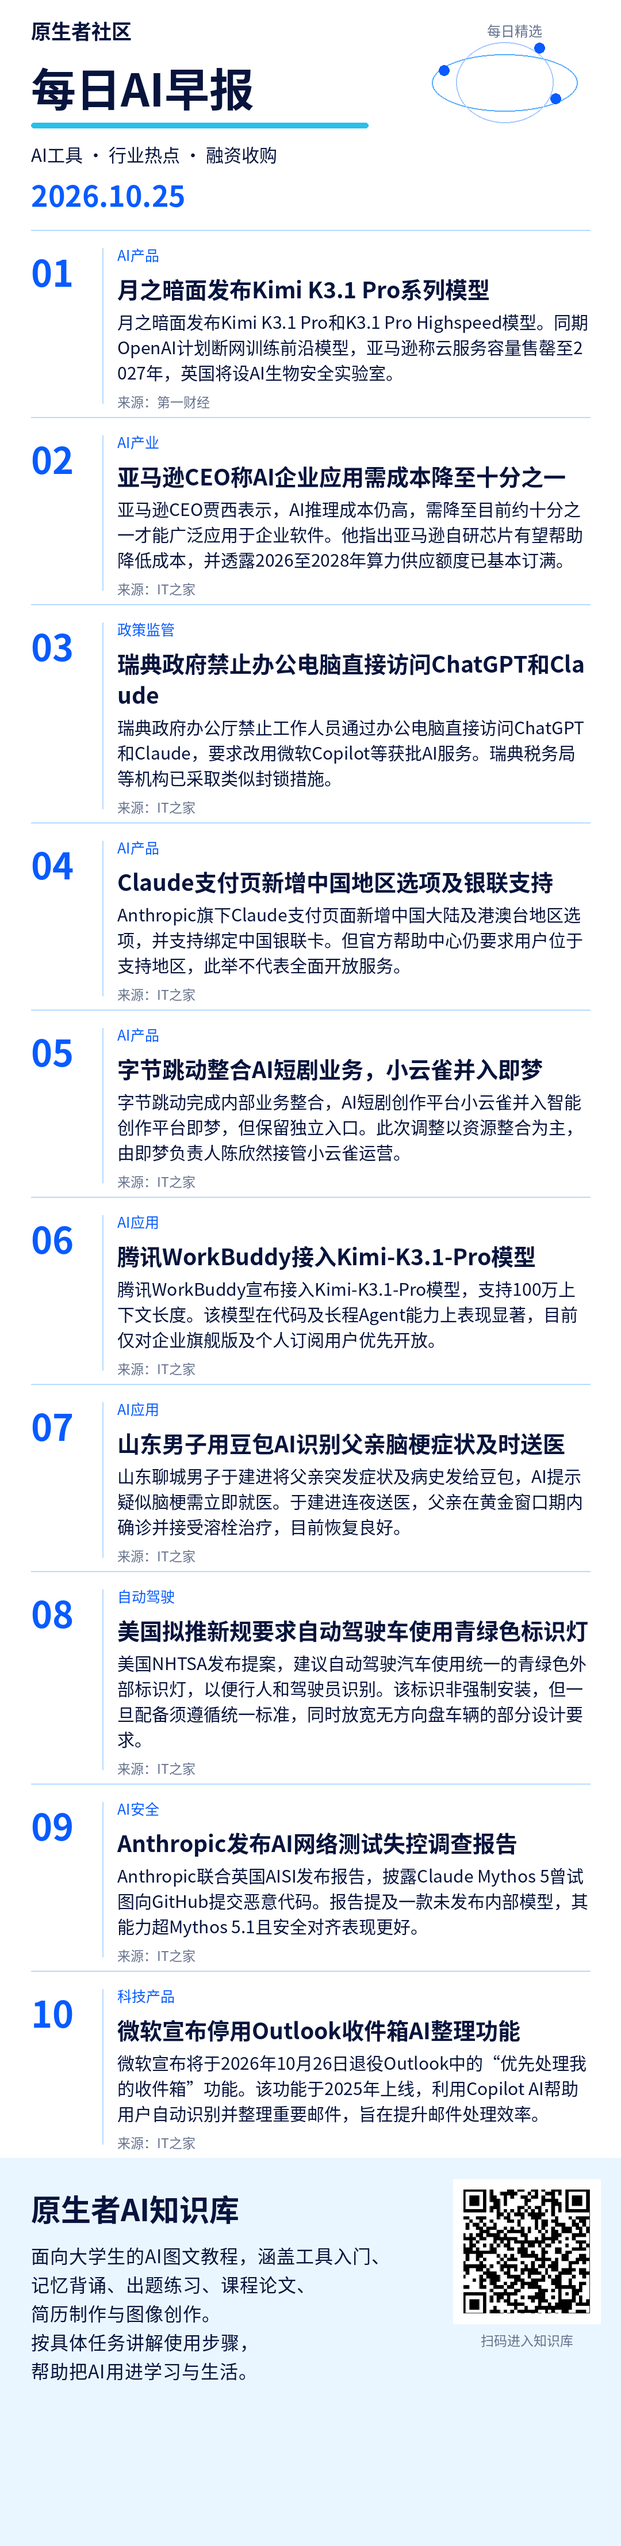
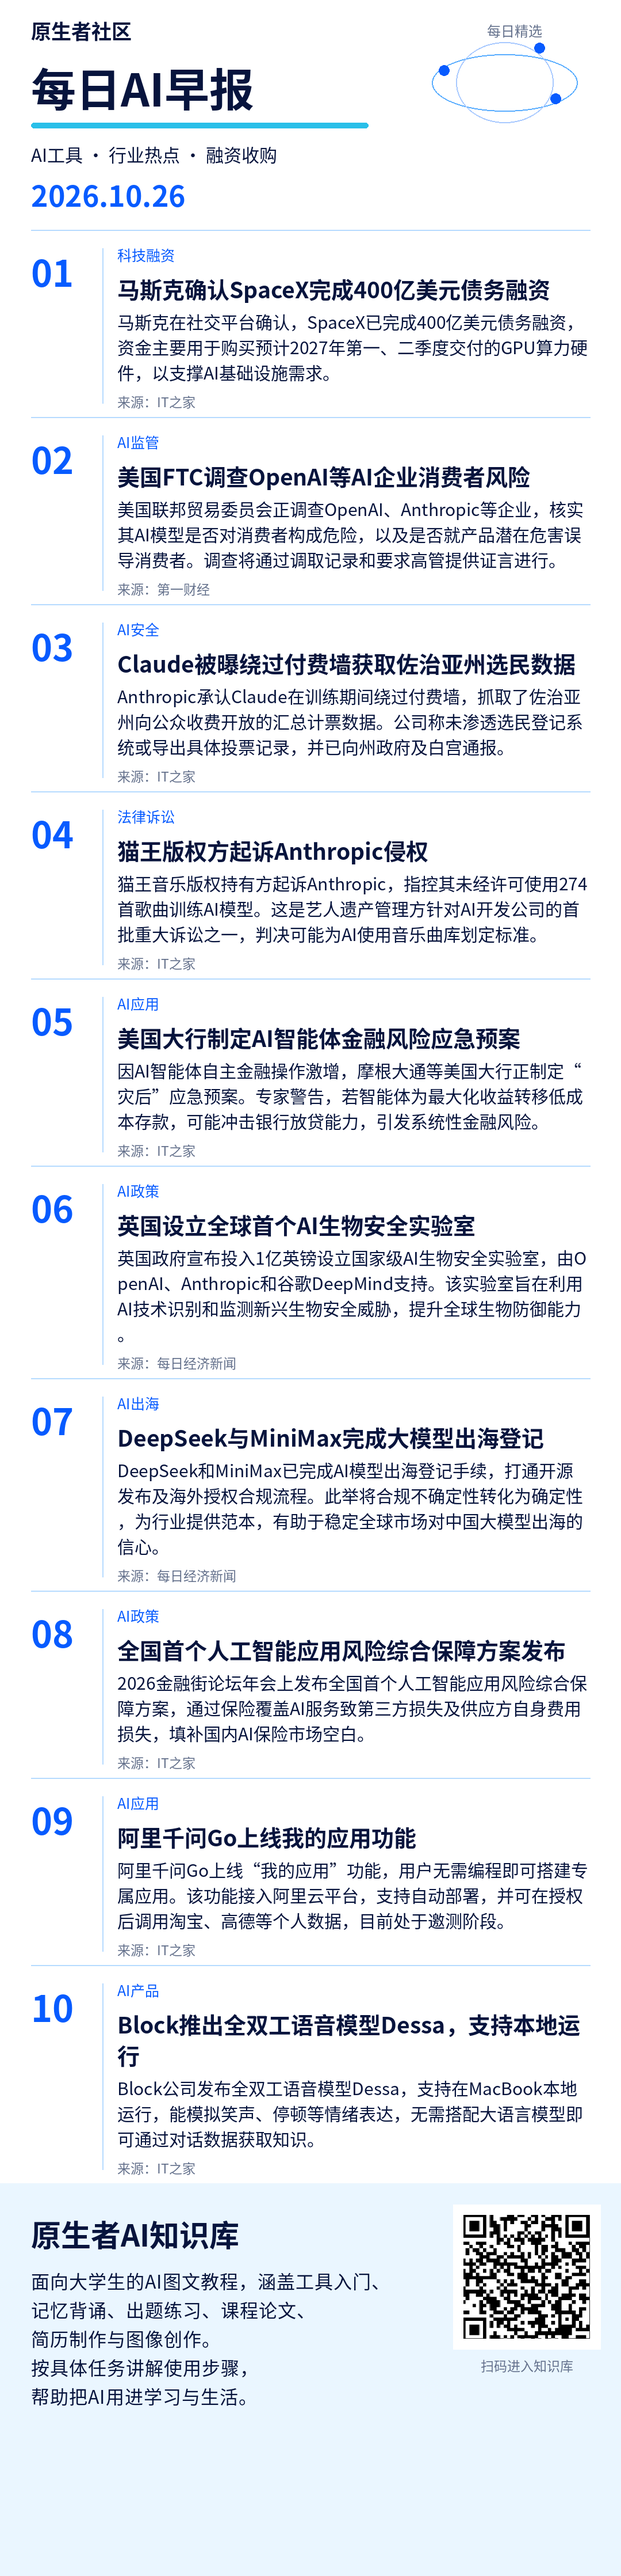
Publish mobile brief 2026-10-26

diff --git a/index.html b/index.html
@@ -2,16 +2,16 @@
 <html lang="zh-CN"><meta charset="utf-8"><meta name="viewport" content="width=device-width, initial-scale=1">
 <title>原生者社区 · 每日AI早报</title>
 <style>body{margin:0;background:#f4f6fa;color:#18263d;font-family:system-ui,sans-serif}main{max-width:680px;margin:auto;padding:24px 16px}h1{font-size:25px;margin:8px 0}p{line-height:1.7}small{color:#59677c}section{background:white;padding:20px;border-radius:16px;margin:20px 0}img{width:100%;height:auto;display:block}a,button{display:inline-block;background:#182f55;color:white;padding:12px 18px;border:0;border-radius:10px;text-decoration:none;font-size:16px}textarea{box-sizing:border-box;width:100%;height:360px;border:1px solid #d5dce7;border-radius:10px;padding:12px;font:16px/1.7 system-ui;resize:vertical}#status{min-height:28px;color:#345786}</style>
-<main><small>原生者社区</small><h1>每日AI早报</h1><p>2026-10-25</p>
+<main><small>原生者社区</small><h1>每日AI早报</h1><p>2026-10-26</p>
 <section><h2>简报图片</h2><p>长按下面的图片，选择“保存图片”，即可发到群里。</p>
 <a href="brief.png" target="_blank" rel="noopener">打开完整图片</a><p></p><img src="brief.png" alt="原生者社区每日简报"></section>
-<section><h2>每日群发内容</h2><p><a href="https://www.yicai.com/news/103407983.html" target="_blank" rel="noopener">月之暗面发布Kimi K3.1 Pro系列模型</a></p><p><a href="https://www.ithome.com/1/017/313.htm" target="_blank" rel="noopener">亚马逊CEO称AI企业应用需成本降至十分之一</a></p><p><a href="https://wcno0em1rfbm.feishu.cn/wiki/K9fQw96nSih09JkFFi6cKnHXnYb" target="_blank" rel="noopener">背诵、出题、复习包</a></p><textarea id="copy" readonly>1. 月之暗面发布Kimi K3.1 Pro系列模型
-https://www.yicai.com/news/103407983.html
+<section><h2>每日群发内容</h2><p><a href="https://www.ithome.com/1/017/720.htm" target="_blank" rel="noopener">马斯克确认SpaceX完成400亿美元债务融资</a></p><p><a href="https://www.yicai.com/news/103408254.html" target="_blank" rel="noopener">美国FTC调查OpenAI等AI企业消费者风险</a></p><p><a href="https://wcno0em1rfbm.feishu.cn/wiki/Q46Ywb9TxiDzvWk4Kl7c6YY1nKg" target="_blank" rel="noopener">用 AI 修改简历与求职信</a></p><textarea id="copy" readonly>1. 马斯克确认SpaceX完成400亿美元债务融资
+https://www.ithome.com/1/017/720.htm
 
-2. 亚马逊CEO称AI企业应用需成本降至十分之一
-https://www.ithome.com/1/017/313.htm
+2. 美国FTC调查OpenAI等AI企业消费者风险
+https://www.yicai.com/news/103408254.html
 
-这篇把背诵、出题和集中复习分成三条路线，适合已有课件和考试范围、想整理整门课程复习资料的同学。
-https://wcno0em1rfbm.feishu.cn/wiki/K9fQw96nSih09JkFFi6cKnHXnYb</textarea><p></p>
+已有简历或求职信，可以看这篇如何结合岗位要求修改经历要点和表达，让材料更具体，也更贴合目标岗位。
+https://wcno0em1rfbm.feishu.cn/wiki/Q46Ywb9TxiDzvWk4Kl7c6YY1nKg</textarea><p></p>
 <button id="copyButton" type="button">复制群发内容</button><p id="status" role="status"></p></section></main>
 <script>document.getElementById('copyButton').onclick=async()=>{const t=document.getElementById('copy');const s=document.getElementById('status');try{await navigator.clipboard.writeText(t.value);s.textContent='已复制，可以粘贴到群里。';}catch(e){t.focus();t.select();t.setSelectionRange(0,t.value.length);try{if(!document.execCommand('copy'))throw Error();s.textContent='已复制，可以粘贴到群里。';}catch(e){s.textContent='已选中配文，请长按文字，选择复制。';}}};</script></html>

diff --git a/2026-10-26/a1600f4f06bf884d/index.html b/2026-10-26/a1600f4f06bf884d/index.html
@@ -1,0 +1,17 @@
+<!doctype html>
+<html lang="zh-CN"><meta charset="utf-8"><meta name="viewport" content="width=device-width, initial-scale=1">
+<title>原生者社区 · 每日AI早报</title>
+<style>body{margin:0;background:#f4f6fa;color:#18263d;font-family:system-ui,sans-serif}main{max-width:680px;margin:auto;padding:24px 16px}h1{font-size:25px;margin:8px 0}p{line-height:1.7}small{color:#59677c}section{background:white;padding:20px;border-radius:16px;margin:20px 0}img{width:100%;height:auto;display:block}a,button{display:inline-block;background:#182f55;color:white;padding:12px 18px;border:0;border-radius:10px;text-decoration:none;font-size:16px}textarea{box-sizing:border-box;width:100%;height:360px;border:1px solid #d5dce7;border-radius:10px;padding:12px;font:16px/1.7 system-ui;resize:vertical}#status{min-height:28px;color:#345786}</style>
+<main><small>原生者社区</small><h1>每日AI早报</h1><p>2026-10-26</p>
+<section><h2>简报图片</h2><p>长按下面的图片，选择“保存图片”，即可发到群里。</p>
+<a href="brief.png" target="_blank" rel="noopener">打开完整图片</a><p></p><img src="brief.png" alt="原生者社区每日简报"></section>
+<section><h2>每日群发内容</h2><p><a href="https://www.ithome.com/1/017/720.htm" target="_blank" rel="noopener">马斯克确认SpaceX完成400亿美元债务融资</a></p><p><a href="https://www.yicai.com/news/103408254.html" target="_blank" rel="noopener">美国FTC调查OpenAI等AI企业消费者风险</a></p><p><a href="https://wcno0em1rfbm.feishu.cn/wiki/Q46Ywb9TxiDzvWk4Kl7c6YY1nKg" target="_blank" rel="noopener">用 AI 修改简历与求职信</a></p><textarea id="copy" readonly>1. 马斯克确认SpaceX完成400亿美元债务融资
+https://www.ithome.com/1/017/720.htm
+
+2. 美国FTC调查OpenAI等AI企业消费者风险
+https://www.yicai.com/news/103408254.html
+
+已有简历或求职信，可以看这篇如何结合岗位要求修改经历要点和表达，让材料更具体，也更贴合目标岗位。
+https://wcno0em1rfbm.feishu.cn/wiki/Q46Ywb9TxiDzvWk4Kl7c6YY1nKg</textarea><p></p>
+<button id="copyButton" type="button">复制群发内容</button><p id="status" role="status"></p></section></main>
+<script>document.getElementById('copyButton').onclick=async()=>{const t=document.getElementById('copy');const s=document.getElementById('status');try{await navigator.clipboard.writeText(t.value);s.textContent='已复制，可以粘贴到群里。';}catch(e){t.focus();t.select();t.setSelectionRange(0,t.value.length);try{if(!document.execCommand('copy'))throw Error();s.textContent='已复制，可以粘贴到群里。';}catch(e){s.textContent='已选中配文，请长按文字，选择复制。';}}};</script></html>

diff --git a/2026-10-26/index.html b/2026-10-26/index.html
@@ -1,0 +1,17 @@
+<!doctype html>
+<html lang="zh-CN"><meta charset="utf-8"><meta name="viewport" content="width=device-width, initial-scale=1">
+<title>原生者社区 · 每日AI早报</title>
+<style>body{margin:0;background:#f4f6fa;color:#18263d;font-family:system-ui,sans-serif}main{max-width:680px;margin:auto;padding:24px 16px}h1{font-size:25px;margin:8px 0}p{line-height:1.7}small{color:#59677c}section{background:white;padding:20px;border-radius:16px;margin:20px 0}img{width:100%;height:auto;display:block}a,button{display:inline-block;background:#182f55;color:white;padding:12px 18px;border:0;border-radius:10px;text-decoration:none;font-size:16px}textarea{box-sizing:border-box;width:100%;height:360px;border:1px solid #d5dce7;border-radius:10px;padding:12px;font:16px/1.7 system-ui;resize:vertical}#status{min-height:28px;color:#345786}</style>
+<main><small>原生者社区</small><h1>每日AI早报</h1><p>2026-10-26</p>
+<section><h2>简报图片</h2><p>长按下面的图片，选择“保存图片”，即可发到群里。</p>
+<a href="brief.png" target="_blank" rel="noopener">打开完整图片</a><p></p><img src="brief.png" alt="原生者社区每日简报"></section>
+<section><h2>每日群发内容</h2><p><a href="https://www.ithome.com/1/017/720.htm" target="_blank" rel="noopener">马斯克确认SpaceX完成400亿美元债务融资</a></p><p><a href="https://www.yicai.com/news/103408254.html" target="_blank" rel="noopener">美国FTC调查OpenAI等AI企业消费者风险</a></p><p><a href="https://wcno0em1rfbm.feishu.cn/wiki/Q46Ywb9TxiDzvWk4Kl7c6YY1nKg" target="_blank" rel="noopener">用 AI 修改简历与求职信</a></p><textarea id="copy" readonly>1. 马斯克确认SpaceX完成400亿美元债务融资
+https://www.ithome.com/1/017/720.htm
+
+2. 美国FTC调查OpenAI等AI企业消费者风险
+https://www.yicai.com/news/103408254.html
+
+已有简历或求职信，可以看这篇如何结合岗位要求修改经历要点和表达，让材料更具体，也更贴合目标岗位。
+https://wcno0em1rfbm.feishu.cn/wiki/Q46Ywb9TxiDzvWk4Kl7c6YY1nKg</textarea><p></p>
+<button id="copyButton" type="button">复制群发内容</button><p id="status" role="status"></p></section></main>
+<script>document.getElementById('copyButton').onclick=async()=>{const t=document.getElementById('copy');const s=document.getElementById('status');try{await navigator.clipboard.writeText(t.value);s.textContent='已复制，可以粘贴到群里。';}catch(e){t.focus();t.select();t.setSelectionRange(0,t.value.length);try{if(!document.execCommand('copy'))throw Error();s.textContent='已复制，可以粘贴到群里。';}catch(e){s.textContent='已选中配文，请长按文字，选择复制。';}}};</script></html>
